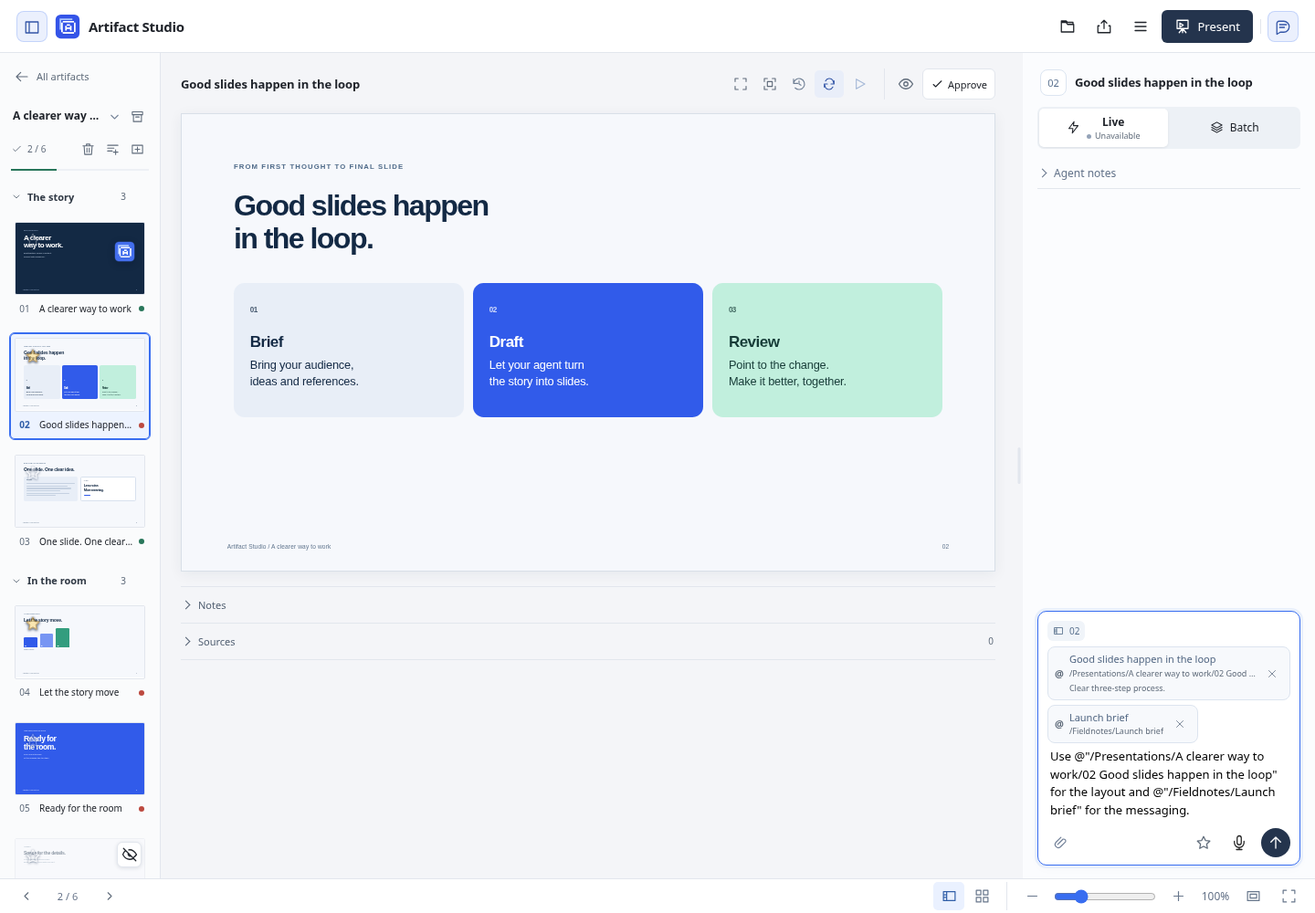
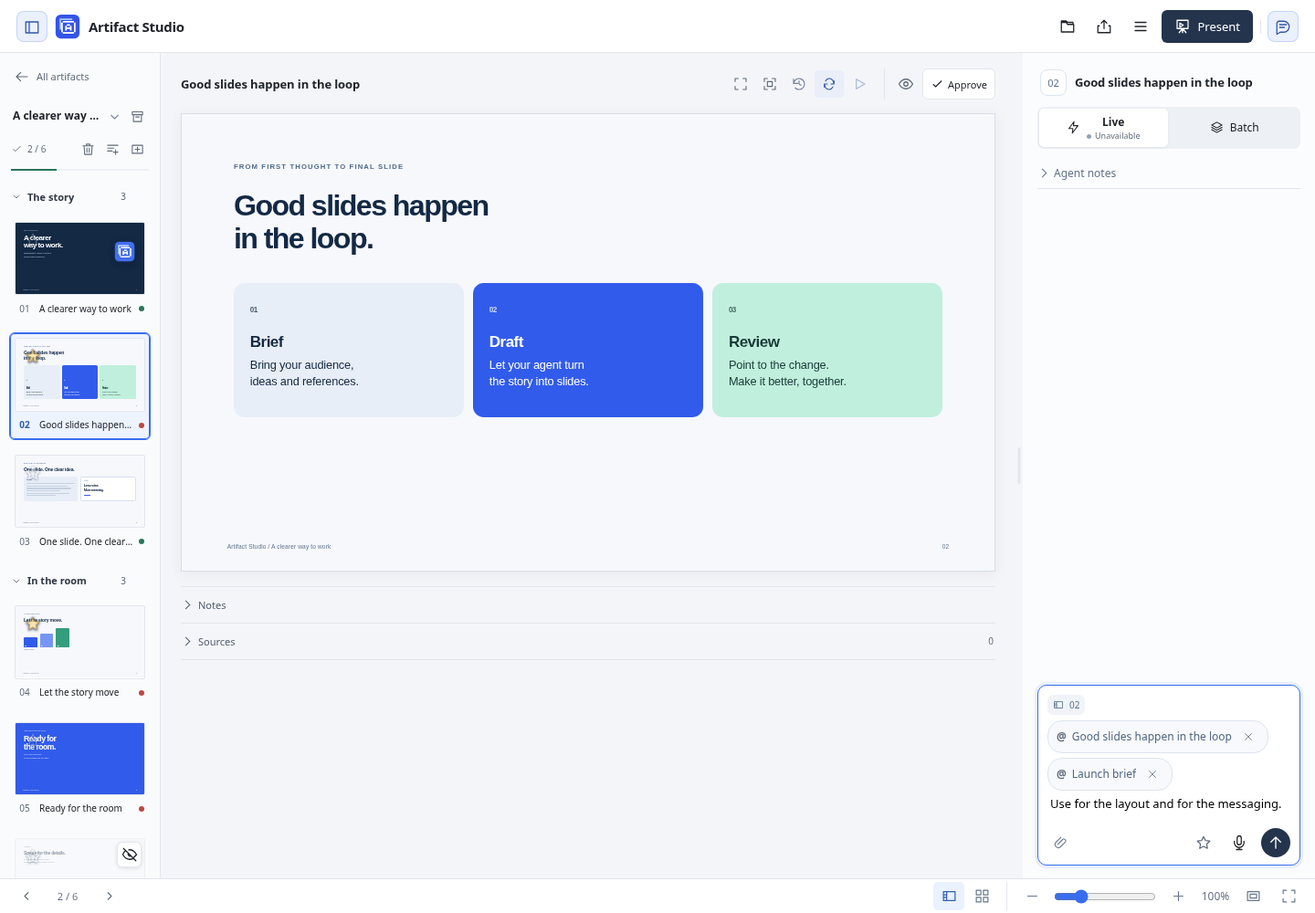
fix(chat): attach highlighted references as compact title pills

Changed region(s): [[0.7812, 0.713, 0.9688, 0.899]]

diff --git a/web/chat-references.js b/web/chat-references.js
@@ -78,7 +78,7 @@
       const duplicate=matches.some(other=>other!==item&&other.path===item.path),identity=[item.project_id,item.artifact_id,item.slide_id].filter(Boolean).join('/');
       return `<button type="button" role="option" tabindex="-1" id="chat-reference-option-${index}" data-reference-index="${index}" aria-selected="${index===0}" aria-label="${escape(item.path)}${duplicate?' · '+escape(identity):''}"><span class="chat-reference-kind" aria-hidden="true">${item.starred?'★':item.kind==='project'?'▸':'@'}</span><span class="chat-reference-row-text"><strong>${escape(item.title)}</strong><small>${escape(item.path)}</small></span><span class="chat-reference-type">${escape(item.kind)}${duplicate?'<br>'+escape(identity):''}</span></button>`;
     }).join('');
-    menu.querySelector('[role=status]').textContent=matches.length?'↑ ↓ select · Enter attach · Tab browse':'No matching references. Try another name or path.';
+    menu.querySelector('[role=status]').textContent=matches.length?'↑ ↓ select · Enter / Tab attach · → browse':'No matching references. Try another name or path.';
     highlight();position();
   }
   async function update(input){
@@ -97,8 +97,6 @@
     if(!active||busy||!matches[index])return;
     const current=active,{input,binding,part,context}=current,item=matches[index],original=input.value;
     if(item.reference_error){menu.querySelector('[role=status]').textContent=item.reference_error;return;}
-    const token='@'+JSON.stringify(item.path)+' ';
-    if(input.maxLength>0&&original.length-(part.end-part.start)+token.length>input.maxLength){menu.querySelector('[role=status]').textContent='Shorten the message before adding a reference.';return;}
     busy=true;pending=current;hidePreview();input.readOnly=true;menu.querySelector('[role=status]').textContent='Adding reference…';
     try{
       const result=await api({kind:item.kind,project_id:item.project_id,artifact_id:item.artifact_id,slide_id:item.slide_id,token:item.token});
@@ -106,7 +104,7 @@
       const bytes=Uint8Array.from(atob(result.file.data_base64),c=>c.charCodeAt(0));
       const file=new File([bytes],result.file.name,{type:result.file.name.endsWith('.html')?'text/html':'application/json'});file.workspaceReference=result.entry;
       if(binding.attach([file])===false){menu.querySelector('[role=status]').textContent='Could not attach this reference. Check the attachment limits.';return;}
-      input.setRangeText(token,part.start,part.end,'end');close();input.readOnly=false;input.focus({preventScroll:true});input.dispatchEvent(new Event('input',{bubbles:true}));
+      input.setRangeText('',part.start,part.end,'end');close();input.readOnly=false;input.focus({preventScroll:true});input.dispatchEvent(new Event('input',{bubbles:true}));
     }catch(error){if(active===current){entries=[];matches=[];loaded=false;menu.querySelector('[role=listbox]').replaceChildren();menu.querySelector('[role=status]').textContent=error.message;position();}}
     finally{input.readOnly=false;busy=false;pending=null;}
   }
@@ -126,7 +124,8 @@
       selected=(selected+(event.key==='ArrowDown'?1:-1)+matches.length)%matches.length;highlight();
       const row=doc.getElementById(`chat-reference-option-${selected}`);row.scrollIntoView({block:'nearest'});const box=menu.getBoundingClientRect();showPreview(selected,box.right,box.top+20);return;
     }
-    if(event.key==='Tab'&&!event.shiftKey&&matches.length&&!busy){if(browse()){event.preventDefault();event.stopImmediatePropagation();}else close();return;}
+    if(event.key==='ArrowRight'&&!busy&&active.input.selectionStart===active.part.end&&browse()){event.preventDefault();event.stopImmediatePropagation();return;}
+    if(event.key==='Tab'&&!event.shiftKey&&matches.length){event.preventDefault();event.stopImmediatePropagation();if(!busy)void choose(selected);return;}
     if(event.key==='Enter'&&!event.shiftKey){event.preventDefault();event.stopImmediatePropagation();if(matches.length)void choose(selected);return;}
     if(['ArrowLeft','ArrowRight','Home','End'].includes(event.key))close();
   },true);
@@ -135,10 +134,15 @@
   doc.addEventListener('focusin',event=>{if(active&&event.target!==active.input&&!menu.contains(event.target))close();});
   root.addEventListener('resize',()=>{hidePreview();position();});
   function chip(file,remove,className='chat-file-chip'){
-    const item=file.workspaceReference;if(!item)return '';
-    return `<span class="${className} is-path-reference"><span class="reference-symbol" aria-hidden="true">@</span><span class="chat-file-description"><span class="chat-file-name">${escape(item.title)}</span><small class="favorite-reference-label" title="${escape(item.path)}">${escape(item.path)}</small>${item.description?`<small class="favorite-reference-description">${escape(item.description)}</small>`:''}</span>${remove}</span>`;
+    const item=file.workspaceReference||file.slideReference;if(!item)return '';
+    return `<span class="${className} is-path-reference${file.slideReference?' is-slide-reference':''}" title="${escape(item.path||item.deckTitle)}"><span class="reference-symbol" aria-hidden="true">@</span><span class="chat-file-name">${escape(item.title)}</span>${remove}</span>`;
+  }
+  function sent(file,className='chat-file-chip'){
+    const match=/^(.+) - (project|artifact|presentation|slide) reference\.(json|html)$/.exec(file.name||'');
+    const url=file.download_url;if(!match||!root.ChatImages.downloadURL(url))return '';
+    return `<a class="${className} is-path-reference" href="${escape(url)}" download title="Download ${escape(match[2])} reference: ${escape(match[1])}"><span class="reference-symbol" aria-hidden="true">@</span><span class="chat-file-name">${escape(match[1])}</span></a>`;
   }
   function register(options){bindings.set(options.inputId,options);}
   doc.addEventListener('focusin',event=>{if(bindings.has(event.target.id)){event.target.setAttribute('aria-autocomplete','list');event.target.setAttribute('aria-controls','chat-reference-options');event.target.setAttribute('aria-haspopup','listbox');ensure();void update(event.target);}});
-  root.ChatReferences={register,chip};
+  root.ChatReferences={register,chip,sent};
 })(window);

diff --git a/web/chat-references.css b/web/chat-references.css
@@ -7,5 +7,8 @@
 .chat-reference-status{padding:8px 14px;color:var(--subtle,var(--hub-muted,#64748b));font-size:11px;border-top:1px solid var(--line,var(--hub-line,#dce2ea))}
 .chat-reference-preview{width:322px;pointer-events:none;z-index:10030}.chat-reference-cover{width:320px;aspect-ratio:16/9;background:var(--bg,var(--hub-bg,#f4f6fa))}.chat-reference-cover img{display:block;width:100%;height:100%;object-fit:contain}.chat-reference-cover img[hidden]{display:none}.chat-reference-frame{width:320px;height:180px;overflow:hidden;pointer-events:none}.chat-reference-frame iframe{border:0;display:block;width:1280px;height:720px;transform:scale(.25);transform-origin:top left;pointer-events:none}
 .chat-reference-preview-caption{padding:10px 12px}.chat-reference-preview-caption strong,.chat-reference-preview-caption small{display:block;overflow-wrap:anywhere}.chat-reference-preview-caption small{color:var(--subtle,var(--hub-muted,#64748b));font-size:11px;margin-top:3px}.chat-reference-preview-caption p{font-size:12px;margin:7px 0 0;white-space:pre-wrap;overflow-wrap:anywhere;max-height:100px;overflow:hidden}
-.reference-symbol{font-weight:600;color:var(--subtle,var(--hub-muted,#64748b));flex:none}.is-path-reference .favorite-reference-label{overflow:hidden;text-overflow:ellipsis;white-space:nowrap;max-width:100%}
+.reference-symbol{font-weight:600;color:var(--subtle,var(--hub-muted,#64748b));flex:none}
+.chat-file-chip.is-path-reference,.hub-attachment.is-path-reference{display:inline-flex;align-items:center;gap:6px;max-width:100%;min-width:0;padding:5px 9px;border-radius:16px;font-size:12px;line-height:18px;text-decoration:none}
+.is-path-reference .chat-file-name{overflow:hidden;text-overflow:ellipsis;white-space:nowrap;min-width:0}
+.is-path-reference button{flex:none}
 @media(max-width:639px){.chat-reference-preview{display:none}}

diff --git a/web/chat-composer.js b/web/chat-composer.js
@@ -72,7 +72,7 @@
     }
     /** Display only same-origin download routes supplied by the feedback endpoint. */
     function sentFiles(comment){
-      const files=(comment.files||[]).map(file=>images?.sent(file) || (/^\/api\/decks\/[a-z0-9-]+\/feedback\/\d+\/files\/\d+$/.test(file.download_url)?`<a class="chat-file-chip chat-sent-file" href="${escape(file.download_url)}" download title="Download ${escape(file.name)}">${svg('attach')}<span class="chat-file-description"><span class="chat-file-name">${escape(file.name)}</span><small>${sizeLabel(file.size)}</small></span>${svg('down')}</a>`:'')).join('');
+      const files=(comment.files||[]).map(file=>root.ChatReferences?.sent(file) || images?.sent(file) || (/^\/api\/decks\/[a-z0-9-]+\/feedback\/\d+\/files\/\d+$/.test(file.download_url)?`<a class="chat-file-chip chat-sent-file" href="${escape(file.download_url)}" download title="Download ${escape(file.name)}">${svg('attach')}<span class="chat-file-description"><span class="chat-file-name">${escape(file.name)}</span><small>${sizeLabel(file.size)}</small></span>${svg('down')}</a>`:'')).join('');
       return files?`<div class="chat-sent-images">${files}</div>`:'';
     }
 

diff --git a/web/workspace-panels.css b/web/workspace-panels.css
@@ -30,7 +30,8 @@
 .workspace-panel-toggle .ui-icon{width:16px;height:16px}
 
 /* Keep navigation compact and reserve a separate place for the sidebar control. */
-@media(min-width:651px){.hub-sidebar{padding-top:35px}.hub-sidebar>button[data-project]{margin:1px 0;padding:8px 9px;border:0;border-radius:6px;background:transparent}.hub-sidebar>button[data-project][aria-current=true]{background:var(--hub-soft)}}
+.hub-sidebar{padding-top:35px}
+@media(min-width:651px){.hub-sidebar>button[data-project]{margin:1px 0;padding:8px 9px;border:0;border-radius:6px;background:transparent}.hub-sidebar>button[data-project][aria-current=true]{background:var(--hub-soft)}}
 body:has(.hub-layout) .workspace-panel-toggle.panel-left{top:69px;width:26px;height:26px;border:0;background:transparent;color:var(--hub-muted)}
 body:has(.hub-layout) .workspace-panel-toggle.panel-left:hover{background:var(--hub-hover);color:var(--hub-ink)}
 

diff --git a/web/workspace-panels.js b/web/workspace-panels.js
@@ -35,7 +35,11 @@
         handle.setAttribute('aria-valuenow', String(width));
         handle.setAttribute('aria-valuetext', `${side === 'left' ? 'Sidebar' : 'Chat'} width ${width} pixels`);
         handle.style.left = `${(side === 'left' ? rect.right : rect.left) - 4}px`;
-        if (kind === 'hub' && side === 'left') controls.left.style.left = `${state.left ? 8 : Math.max(8, rect.right - 32)}px`;
+        if (kind === 'hub') {
+          const top = doc.querySelector('.hub-top')?.getBoundingClientRect().bottom || 64;
+          controls[side].style.top = `${Math.max(69,top + 5)}px`;
+          if (side === 'left') controls.left.style.left = `${state.left || view.innerWidth <= 650 ? 8 : Math.max(8, rect.right - 32)}px`;
+        }
         handle.style.top = `${Math.max(0,rect.top)}px`;
         handle.style.height = `${Math.max(0,Math.min(view.innerHeight,rect.bottom)-Math.max(0,rect.top))}px`;
       }

diff --git a/web/favorites.js b/web/favorites.js
@@ -165,7 +165,8 @@
         for(const item of entries.filter(item=>chosen.has(item.deck_id+'/'+item.slide_id))){
           const result=await api(`/api/favorites/slides/${encodeURIComponent(item.deck_id)}/${encodeURIComponent(item.slide_id)}/reference`,{content_hash:item.content_hash});
           const bytes=Uint8Array.from(atob(result.data_base64),char=>char.charCodeAt(0));
-          const file=new File([bytes],result.name,{type:'text/html'});
+          const title=String(item.title).replace(/[/\\:\x00-\x1f]/g,'-').trim().slice(0,160)||'Slide';
+          const file=new File([bytes],`${title} - slide reference.html`,{type:'text/html'});
           file.slideReference={title:item.title,deckTitle:item.deck_title,description:item.description||''};files.push(file);
         }
         if(await attach(files)!==false)picker.close();

diff --git a/web/hub.js b/web/hub.js
@@ -478,6 +478,7 @@
     const author=message.author || message.role || 'user', user=author==='user', target=message.target, targets=target?.kind==='group'?target.elements:[target].filter(Boolean);
     const date=message.created_at?new Date(message.created_at):null;
     const files=(message.files || []).map(file=>{
+      const reference=root.ChatReferences?.sent(file,'hub-attachment');if(reference)return reference;
       const image=chatImages.sent(file);if(image)return image;
       const url=file.download_url;
       return typeof url==='string' && /^\/api\/artifacts\//.test(url)?`<a class="hub-attachment" href="${escape(url)}" download>${icon('attach')}<span>${escape(file.name || file.path)}</span></a>`:`<span class="hub-attachment">${icon('attach')}<span>${escape(file.name || file.path)}</span></span>`;

diff --git a/tests/integration/test_chat_references.py b/tests/integration/test_chat_references.py
@@ -37,9 +37,9 @@ def test_keyboard_paths_and_reference_message_delivery(page: Page, prepared: Run
     # Keyboard browse a project without attaching it; Enter chooses the resulting artifact.
     row = options.get_by_role("option", name="/Fieldnotes", exact=True)
     row.hover()
-    text.press("Tab")
+    text.press("ArrowRight")
     expect(text).to_have_value("Use @/Fieldnotes/")
-    text.press("Enter")
+    text.press("Tab")
     expect(page.locator(".is-path-reference")).to_have_count(1)
     expect(text).to_be_focused()
     assert not prepared.store.comments(DECK_ID)
@@ -54,14 +54,15 @@ def test_keyboard_paths_and_reference_message_delivery(page: Page, prepared: Run
     expect(page.locator(".is-path-reference")).to_have_count(2)
     text.press_sequentially("for layout")
     text.press("Enter")
-    expect(page.locator(".is-path-reference")).to_have_count(0)
+    expect(page.locator("form .is-path-reference")).to_have_count(0)
     event = prepared.store.comments(DECK_ID)[-1]
     assert len(event.files) == 2
     assert "for layout" in event.message
     assert "reference" in event.files[0].name and "artifact-" not in event.files[0].name
     assert "Clear three-step process." in Path(event.files[1].path).read_text()
     page.reload()
-    expect(page.locator("#feedback-list")).to_contain_text(event.files[0].name)
+    expect(page.locator("#feedback-list .is-path-reference")).to_have_count(2)
+    assert '@"/' not in event.message
 
 
 def test_hover_preview_tracks_cursor_and_clamps_to_viewport(
@@ -253,8 +254,9 @@ def test_artifact_hover_keeps_saved_cover_and_loads_cached_cover_during_renderer
         expect(preview.locator("img")).to_have_attribute("src", saved_url)
         page.clock.fast_forward(31_000)
         page.wait_for_timeout(100)
-        assert requests[current] == 1
+        assert requests[current] == 2
         assert requests[prepared.url + fallback] == 1
+        expect(preview.locator("img")).to_have_attribute("src", saved_url)
         assert not errors, errors
     finally:
         context.close()
@@ -287,16 +289,14 @@ def test_touch_native_artifact_reference_keeps_focus_and_saved_context(
         expect(text).to_be_focused()
         assert page.evaluate("document.documentElement.scrollWidth<=innerWidth")
         page.locator("#hub-send").tap()
-        expect(page.locator(".is-path-reference")).to_have_count(0)
+        expect(page.locator("form .is-path-reference")).to_have_count(0)
         event = ArtifactStore(prepared.store).feedback(item.id, include_pending=True)[-1]
         assert len(event.files) == 2
         assert json.loads(Path(event.files[1].path).read_text())["scope"].startswith(
             "Project brief"
         )
         page.reload()
-        expect(page.locator("#hub-thread")).to_contain_text(
-            "Research notes - artifact reference.json"
-        )
+        expect(page.locator("#hub-thread")).to_contain_text("Research notes")
     finally:
         context.close()
 
@@ -315,8 +315,88 @@ def test_path_browsing_handles_slashes_quotes_and_at_signs(
     text.fill("Use @Research")
     options = page.get_by_role("listbox", name="Workspace references")
     options.get_by_role("option", name="/" + project.title, exact=True).hover()
-    text.press("Tab")
+    text.press("ArrowRight")
     expect(options.get_by_role("option")).to_have_count(1)
     text.press("Enter")
     expect(page.locator(".is-path-reference")).to_contain_text("Exact source")
-    assert json.loads(text.input_value().removeprefix("Use @").strip()).endswith("/Exact source")
+    expect(text).to_have_value("Use ")
+
+
+@pytest.mark.parametrize("composer", ["presentation", "artifact"])
+def test_tab_attaches_highlighted_title_pill_and_keeps_prose(
+    page: Page, prepared: RunningApp, composer: str
+) -> None:
+    """Both chats attach the highlighted item, remove pills and deliver frozen references."""
+    item = next(
+        item
+        for item in ArtifactStore(prepared.store).list_artifacts()
+        if item.title == "Launch brief"
+    )
+    presentation = composer == "presentation"
+    page.goto(
+        f"{prepared.url}/?deck={DECK_ID}#workflow"
+        if presentation
+        else f"{prepared.url}/?artifact={item.id}"
+    )
+    text = page.locator("#feedback-text" if presentation else "#hub-feedback-text")
+    text.fill("Compare @Fieldnotes")
+    options = page.get_by_role("listbox", name="Workspace references")
+    expect(options.get_by_role("option")).not_to_have_count(0)
+    text.press("ArrowDown")
+    selected = options.locator('[aria-selected="true"]')
+    title = selected.locator("strong").inner_text()
+    text.press("Tab")
+    pill = page.locator("form .is-path-reference")
+    expect(pill).to_have_count(1)
+    expect(pill.locator(".chat-file-name")).to_have_text(title)
+    expect(pill.locator("small,img,iframe")).to_have_count(0)
+    expect(text).to_have_value("Compare ")
+    expect(text).to_be_focused()
+    pill.get_by_role("button").click()
+    expect(pill).to_have_count(0)
+    expect(text).to_have_value("Compare ")
+    text.fill("Compare @Brand direction")
+    expect(options.get_by_role("option")).to_have_count(1)
+    text.press("Enter")
+    expect(pill).to_have_count(1)
+    text.press_sequentially("with the current draft.")
+    text.press("Enter")
+    expect(pill).to_have_count(0)
+    event = (
+        prepared.store.comments(DECK_ID)[-1]
+        if presentation
+        else ArtifactStore(prepared.store).feedback(item.id, include_pending=True)[-1]
+    )
+    assert event.message == "Compare with the current draft."
+    assert len(event.files) == 1
+    frozen = json.loads(Path(event.files[0].path).read_text())
+    assert frozen["title"] == "Brand direction"
+    page.reload()
+    sent = page.locator("#feedback-list" if presentation else "#hub-thread")
+    expect(sent.locator(".is-path-reference")).to_have_text("@Brand direction")
+    expect(sent).not_to_contain_text('@"/')
+    expect(sent).not_to_contain_text(" - artifact reference.json")
+
+
+@pytest.mark.parametrize("width", [320, 390])
+def test_narrow_artifact_sidebar_and_chat_controls_are_independently_clickable(
+    page: Page, prepared: RunningApp, width: int,
+) -> None:
+    """Wrapped headers and full-width sidebars must not put both toggles in one corner."""
+    page.set_viewport_size({"width": width, "height": 844})
+    item = next(
+        item for item in ArtifactStore(prepared.store).list_artifacts()
+        if item.title == "Launch brief"
+    )
+    page.goto(f"{prepared.url}/?artifact={item.id}")
+    sidebar = page.get_by_role("button", name="Close sidebar", exact=True)
+    chat = page.get_by_role("button", name="Close chat", exact=True)
+    expect(sidebar).to_be_visible()
+    expect(chat).to_be_visible()
+    sidebar.click()
+    page.get_by_role("button", name="Open sidebar", exact=True).click()
+    chat.click()
+    page.get_by_role("button", name="Open chat", exact=True).click()
+    expect(sidebar).to_be_visible()
+    expect(chat).to_be_visible()
+    assert page.evaluate("document.documentElement.scrollWidth <= innerWidth")

diff --git a/tests/integration/test_favorites.py b/tests/integration/test_favorites.py
@@ -126,8 +126,9 @@ def test_cross_deck_reference_drafts_batch_delivery_and_frozen_source(
     picker.get_by_role("button", name="Add references", exact=True).click()
     expect(picker).to_be_hidden()
     expect(page.locator(".is-slide-reference")).to_have_count(2)
-    expect(page.locator(".favorite-reference-description").last).to_have_text(
-        "A comparison layout with a strong hierarchy."
+    expect(page.locator(".is-slide-reference small,.is-slide-reference img")).to_have_count(0)
+    expect(page.locator(".is-slide-reference .chat-file-name").last).to_have_text(
+        "One slide. One clear idea."
     )
     page.locator('.slide-thumb[data-id="cover"]').click()
     expect(page.locator(".is-slide-reference")).to_have_count(0)
@@ -174,6 +175,9 @@ def test_cross_deck_reference_drafts_batch_delivery_and_frozen_source(
     assert '"description": "A comparison layout with a strong hierarchy."' in bodies[1]
     assert "A newer description" not in bodies[1]
     assert "Pause on the contrast" not in bodies[1]
+    assert message.files[1].name == "One slide. One clear idea. - slide reference.html"
+    expect(page.locator("#feedback-list .is-path-reference")).to_have_count(2)
+    expect(page.locator("#feedback-list")).not_to_contain_text(" - slide reference.html")
 
 
 def test_slide_star_and_native_artifact_chat_reference(page: Page, prepared: RunningApp) -> None:
@@ -192,11 +196,16 @@ def test_slide_star_and_native_artifact_chat_reference(page: Page, prepared: Run
     expect(page.frame_locator(".favorite-card iframe").first.locator(".slide")).to_be_visible()
     picker.locator("[data-favorite-pick]").first.click()
     picker.get_by_role("button", name="Add references", exact=True).click()
-    expect(page.locator("#hub-feedback-attachments")).to_contain_text("Slide reference")
+    pill = page.locator("#hub-feedback-attachments .is-slide-reference")
+    expect(pill).to_have_count(1)
+    title = pill.locator(".chat-file-name").inner_text()
+    expect(pill.locator("small,img,iframe")).to_have_count(0)
     page.locator("#hub-feedback-text").fill("Use this as the visual direction.")
     page.locator("#hub-send").click()
     expect(page.locator(".hub-message-body")).to_contain_text("Use this as the visual direction.")
     expect(page.locator(".hub-message .hub-attachment")).to_have_count(1)
+    expect(page.locator(".hub-message .is-path-reference .chat-file-name")).to_have_text(title)
+    expect(page.locator(".hub-message")).not_to_contain_text(" - slide reference.html")
 
 
 def test_description_save_cancel_search_persistence_and_clear(

diff --git a/scripts/capture_chat_references.py b/scripts/capture_chat_references.py
@@ -9,6 +9,7 @@ from pathlib import Path
 
 from playwright.sync_api import expect, sync_playwright
 
+from artifact_studio.artifacts import ArtifactStore
 from scripts.preview_favorites import prepare_covers, seed_favorites
 from tests.integration.support import DECK_ID, PROJECT, running_app
 
@@ -61,6 +62,26 @@ def main() -> None:
             expect(page.locator(".is-path-reference")).to_have_count(2)
             page.mouse.move(1, 1)
             capture("chat-reference-chips.png")
+            text.press("Enter")
+            expect(page.locator("#feedback-list .is-path-reference")).to_have_count(2)
+            capture("chat-reference-sent.png")
+            item = next(
+                item
+                for item in ArtifactStore(app.store).list_artifacts()
+                if item.title == "Launch brief"
+            )
+            page.emulate_media(color_scheme="dark")
+            page.set_viewport_size({"width": 390, "height": 844})
+            page.goto(f"{app.url}/?artifact={item.id}")
+            text = page.locator("#hub-feedback-text")
+            text.fill("Compare @Research notes")
+            expect(
+                page.get_by_role("listbox", name="Workspace references").get_by_role("option")
+            ).to_have_count(1)
+            text.press("Tab")
+            expect(page.locator("form .is-path-reference")).to_have_count(1)
+            text.press_sequentially("with this direction.")
+            capture("chat-reference-artifact-mobile.png")
             browser.close()
     _ = (output / "chat-reference-captures.json").write_text(json.dumps(captures, indent=2) + "\n")
 

diff --git a/README.md b/README.md
@@ -30,7 +30,7 @@ The **Library** is the home screen. Browse all your work, filter by project or f
 
 Sort **All artifacts** or a project overview by **Name**, **Last changed**, **Created**, or **File type**. File type shows separate format groups; the arrow reverses the order. One choice is remembered in this browser across overviews. [Library controls](docs/GETTING-STARTED.md#designs-and-work).
 
-Library covers are saved locally and reused across reloads and app restarts. Changed content queues a background update while the earlier preview stays visible. Cards near the viewport load first; you can search, sort and open artifacts while previews update. If an update fails, the retry icon becomes available after a short cooldown. [Preview behavior and measurements](docs/performance/library-preview-results.md).
+Library covers are saved locally and reused across reloads and app restarts. Changed content queues a background update while the earlier preview stays visible. Cards near the viewport load first; you can search, sort and open artifacts while previews update. Temporary renderer and network failures retry automatically after a cooldown, up to six times; manual retry remains available. Hover over the retry icon for renderer setup details. [Preview behavior and measurements](docs/performance/library-preview-results.md).
 
 The editor and Favorites load nearby slide previews and release offscreen or closed previews. Feedback polling, scoped agent reads and paused backups also avoid unnecessary work while retaining source verification and history. [Resource review, measurements and remaining opportunities](docs/performance/runtime-efficiency.md).
 
@@ -246,7 +246,7 @@ The editor keeps tools in one row. Top-bar icons toggle the slide list and conve
 
 The hub's **… → Presentation tools** opens the existing editor menu for design references, reference libraries, instructions and agent connection. **← All artifacts** at the top of the presentation sidebar returns to the hub, including from slide overview. Existing `/?deck=...` links remain valid.
 
-Star artifacts to keep them first in the library. Star individual slide thumbnails to save them in **Favorite slides**, across presentations. Add an optional description to explain why a slide is useful; search finds descriptions and titles. In either chat, **type @** to search projects, artifacts, presentations and slides by path. Use **Tab** to browse into a project or presentation, then **Enter** to attach the selection. Hover over a suggestion for a preview beside the cursor. The **★ beside the paperclip** also opens the favorite-slide picker. References preserve the selected source and description for the agent. [Chat references](docs/CHAT-REFERENCES.md).
+Star artifacts to keep them first in the library. Star individual slide thumbnails to save them in **Favorite slides**, across presentations. Add an optional description to explain why a slide is useful; search finds descriptions and titles. In either chat, **type @** to search projects, artifacts, presentations and slides by path. **Tab** or **Enter** attaches the highlighted result as a compact title pill; **→** browses into a project or presentation. Hover over a suggestion for a preview beside the cursor. The **★ beside the paperclip** also opens the favorite-slide picker. References preserve the selected source and description for the agent. [Chat references](docs/CHAT-REFERENCES.md).
 
 ## Your files stay local
 

diff --git a/docs/CHAT-REFERENCES.md b/docs/CHAT-REFERENCES.md
@@ -4,8 +4,8 @@ Type **@** in presentation or artifact chat. Search by a project, artifact,
 presentation or slide title; favorite-slide descriptions are searchable too.
 Choose a suggestion to attach its saved context.
 
-- **↑ / ↓** selects a suggestion; **Enter** attaches it without sending the message.
-- **Tab** browses into the selected project or presentation. Continue typing after
+- **↑ / ↓** selects a suggestion; **Enter** or **Tab** attaches it without sending the message.
+- **→** browses into the selected project or presentation. Continue typing after
   `/` to narrow the path, for example `@Fieldnotes/Launch brief`.
 - **Escape** dismisses suggestions. Enter sends normally after the picker closes.
 - Hover over a suggestion for a preview next to the cursor. Keyboard selection
@@ -17,13 +17,15 @@ dismissing suggestions stops waiting for the update. Individual slides retain
 their live slide preview. The title and reference remain available if a cover
 cannot be rendered.
 
-The selected path is inserted into the message, with quotes added automatically
-for names containing spaces or punctuation. A reference chip shows what will be
-included. Remove it with its **×**. Repeating the same version in one message
-reuses its attachment. Up to five attachments fit in one message.
+The selected query becomes a compact pill showing the slide, project or artifact
+title. Full paths stay out of your message; hover over a draft pill to see its
+path. Remove it with its **×**. Sent references remain title pills you can click
+to download the frozen source. Repeating the same version in one message reuses
+its attachment. Up to five attachments fit in one message.
 
 You can still click **★ beside the paperclip** to choose several favorite slides
-at once, including slides from other presentations.
+at once, including slides from other presentations. These use the same compact
+title pills; descriptions stay inside the frozen reference delivered to your agent.
 
 ## What the agent receives
 
@@ -46,4 +48,6 @@ chat's released message. Source content is loaded only when selected; the
 workspace reference catalog is not added to agent startup context.
 
 ![A slide preview next to the pointer over a path suggestion](screenshots/chat-reference-hover.png)
-![Selected paths and reference chips in chat](screenshots/chat-reference-chips.png)
+![Compact title pills in chat](screenshots/chat-reference-chips.png)
+![Sent reference title pills retain download links](screenshots/chat-reference-sent.png)
+![Compact reference pill in dark artifact chat on a narrow screen](screenshots/chat-reference-artifact-mobile.png)
